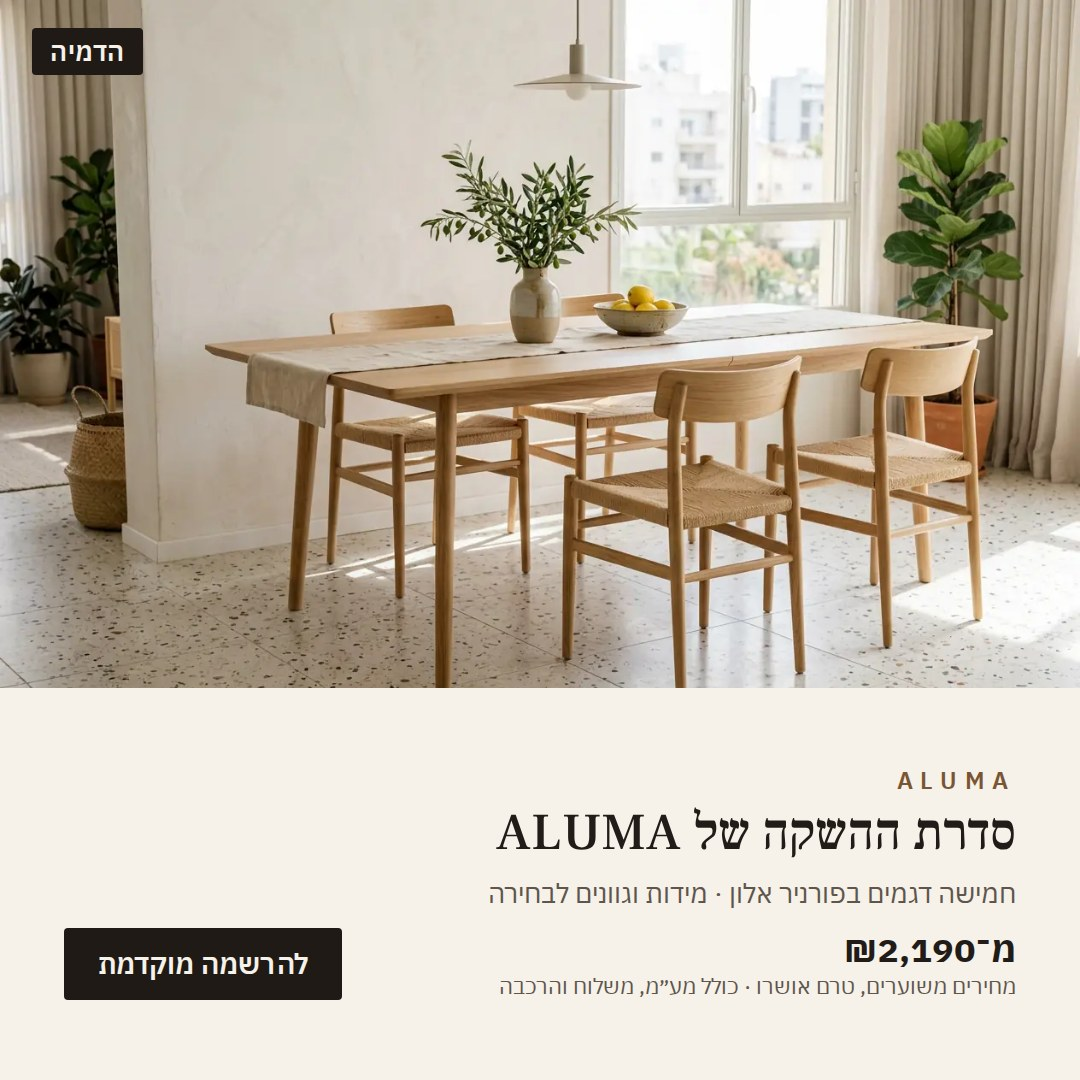
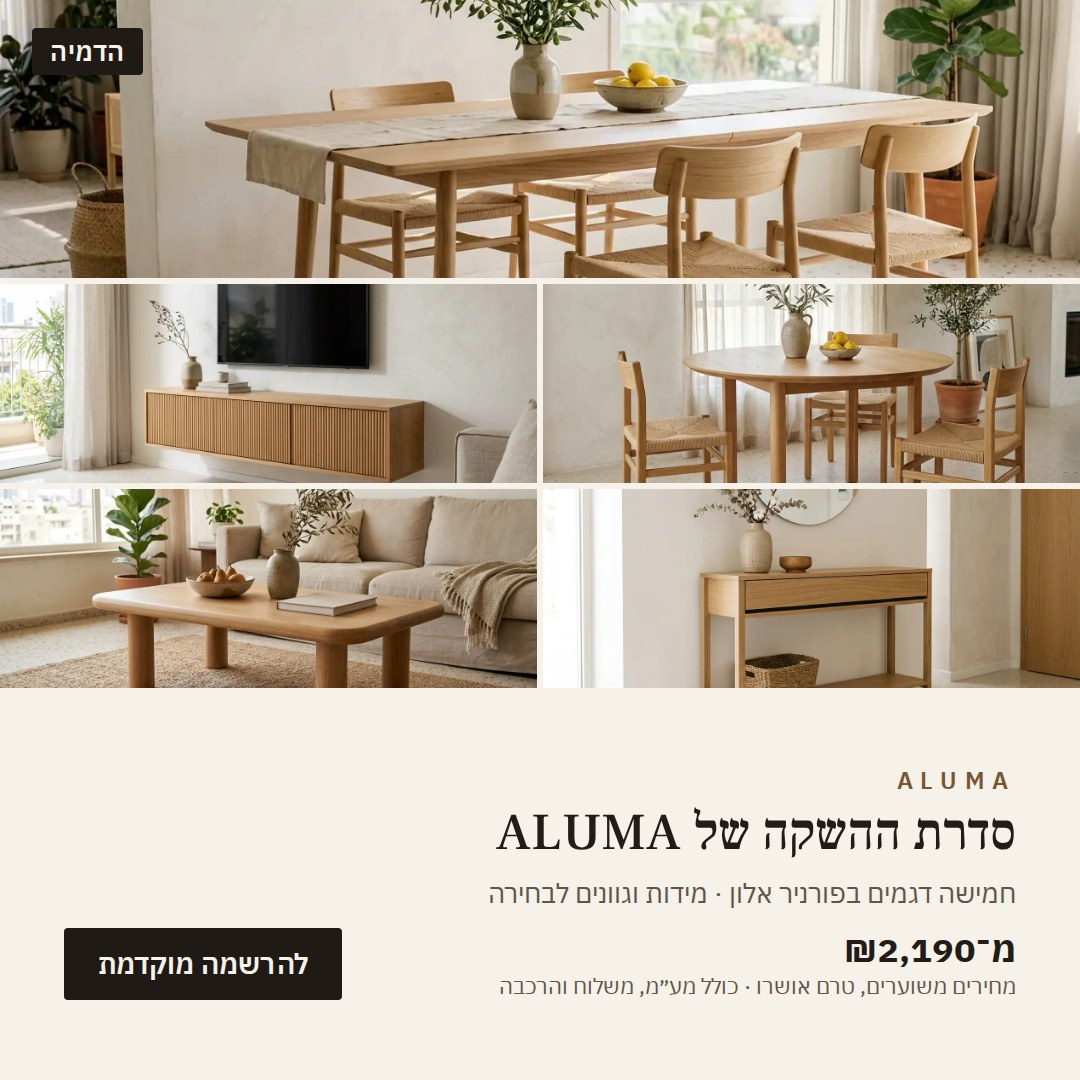
fix(creatives): колекція 1:1 і 4:5 показує всі п'ять товарів — ціна «від ₪2 190» більше не від невидимого TAL
Рядки сітки «1fr» не стискались нижче природної висоти кадру: у 1:1 видно було лише TAVOR, у 4:5 —
TAVOR, OFEK і SAHAR, а «מ־₪2,190» — ціна TAL, якого на картинці не було. Тепер minmax(0, …).
build.js міряє, яку частку полотна реально показує кожен кадр (elementFromPoint), і падає нижче 5 %;
report.json несе tiles, tests/test_quality_creatives.py звіряє їх з limits.min_tile_share.
Старий шаблон з новою перевіркою — червоні рівно collection 1:1 і 4:5.

Claude-Session: https://claude.ai/code/session_018sbZ2fd9jFWSViuAy2YxtJ

diff --git a/docs/creatives/preview.html b/docs/creatives/preview.html
@@ -6,7 +6,7 @@ h1{font-size:22px;margin:0 0 16px}h2{font-size:17px;margin:24px 0 8px}.row{displ
 figure{margin:0}img{display:block;height:auto;max-width:100%;box-shadow:0 1px 4px rgba(0,0,0,.18)}figcaption{font-size:13px;color:#5E554C;margin-top:6px}</style>
 </head><body><h1>ALUMA — креативи для тесту Meta (візуалізації, «הדמיה»)</h1>
 <p>Згенеровано: node tools/creatives/build.js. Ціни — орієнтир, «מחיר משוער, טרם אושר».</p>
-<section><h2>tavor</h2><div class="row"><figure><img src="tavor-1080x1080.jpg" alt="tavor 1080×1080" width="270" height="270"><figcaption>1080×1080 · 168 KB · текст 8.0 % · контраст ≥ 5.9</figcaption></figure><figure><img src="tavor-1080x1350.jpg" alt="tavor 1080×1350" width="270" height="337.5"><figcaption>1080×1350 · 193 KB · текст 7.4 % · контраст ≥ 5.9</figcaption></figure><figure><img src="tavor-1080x1920.jpg" alt="tavor 1080×1920" width="270" height="480"><figcaption>1080×1920 · 210 KB · текст 5.8 % · контраст ≥ 5.9</figcaption></figure></div></section>
-<section><h2>sahar</h2><div class="row"><figure><img src="sahar-1080x1080.jpg" alt="sahar 1080×1080" width="270" height="270"><figcaption>1080×1080 · 159 KB · текст 8.2 % · контраст ≥ 5.9</figcaption></figure><figure><img src="sahar-1080x1350.jpg" alt="sahar 1080×1350" width="270" height="337.5"><figcaption>1080×1350 · 199 KB · текст 7.6 % · контраст ≥ 5.9</figcaption></figure><figure><img src="sahar-1080x1920.jpg" alt="sahar 1080×1920" width="270" height="480"><figcaption>1080×1920 · 213 KB · текст 5.9 % · контраст ≥ 5.9</figcaption></figure></div></section>
-<section><h2>collection</h2><div class="row"><figure><img src="collection-1080x1080.jpg" alt="collection 1080×1080" width="270" height="270"><figcaption>1080×1080 · 169 KB · текст 7.8 % · контраст ≥ 5.9</figcaption></figure><figure><img src="collection-1080x1350.jpg" alt="collection 1080×1350" width="270" height="337.5"><figcaption>1080×1350 · 213 KB · текст 7.2 % · контраст ≥ 5.9</figcaption></figure><figure><img src="collection-1080x1920.jpg" alt="collection 1080×1920" width="270" height="480"><figcaption>1080×1920 · 364 KB · текст 5.6 % · контраст ≥ 5.9</figcaption></figure></div></section>
+<section><h2>tavor</h2><div class="row"><figure><img src="tavor-1080x1080.jpg" alt="tavor 1080×1080" width="270" height="270"><figcaption>1080×1080 · 171 KB · текст 8.0 % · контраст ≥ 5.9</figcaption></figure><figure><img src="tavor-1080x1350.jpg" alt="tavor 1080×1350" width="270" height="337.5"><figcaption>1080×1350 · 193 KB · текст 7.4 % · контраст ≥ 5.9</figcaption></figure><figure><img src="tavor-1080x1920.jpg" alt="tavor 1080×1920" width="270" height="480"><figcaption>1080×1920 · 210 KB · текст 5.8 % · контраст ≥ 5.9</figcaption></figure></div></section>
+<section><h2>sahar</h2><div class="row"><figure><img src="sahar-1080x1080.jpg" alt="sahar 1080×1080" width="270" height="270"><figcaption>1080×1080 · 162 KB · текст 8.2 % · контраст ≥ 5.9</figcaption></figure><figure><img src="sahar-1080x1350.jpg" alt="sahar 1080×1350" width="270" height="337.5"><figcaption>1080×1350 · 199 KB · текст 7.6 % · контраст ≥ 5.9</figcaption></figure><figure><img src="sahar-1080x1920.jpg" alt="sahar 1080×1920" width="270" height="480"><figcaption>1080×1920 · 213 KB · текст 5.9 % · контраст ≥ 5.9</figcaption></figure></div></section>
+<section><h2>collection</h2><div class="row"><figure><img src="collection-1080x1080.jpg" alt="collection 1080×1080" width="270" height="270"><figcaption>1080×1080 · 183 KB · текст 7.8 % · контраст ≥ 5.9</figcaption></figure><figure><img src="collection-1080x1350.jpg" alt="collection 1080×1350" width="270" height="337.5"><figcaption>1080×1350 · 233 KB · текст 7.2 % · контраст ≥ 5.9</figcaption></figure><figure><img src="collection-1080x1920.jpg" alt="collection 1080×1920" width="270" height="480"><figcaption>1080×1920 · 364 KB · текст 5.6 % · контраст ≥ 5.9</figcaption></figure></div></section>
 </body></html>

diff --git a/tools/creatives/build.js b/tools/creatives/build.js
@@ -21,6 +21,7 @@ const ORIGIN = 'https://creative.test';
 const MAX_BYTES = 500 * 1024;
 const MAX_TEXT_SHARE = 0.20;
 const MIN_CONTRAST = 4.5;
+const MIN_TILE_SHARE = 0.05;   // кожен кадр товару — щонайменше 5 % полотна
 const TYPES = { '.webp': 'image/webp', '.avif': 'image/avif', '.png': 'image/png', '.jpg': 'image/jpeg',
   '.jpeg': 'image/jpeg', '.woff2': 'font/woff2' };
 
@@ -127,12 +128,21 @@ function measure() {
     texts.push({ text: el.textContent.trim().slice(0, 40), contrast: bg ? (a + 0.05) / (b + 0.05) : 0,
       inside: box.left >= 0 && box.top >= 0 && box.right <= W && box.bottom <= H });
   }
+  // Яка частка полотна реально показує кожен кадр (сітка точок + elementFromPoint: враховує обрізання
+  // сіткою й картку 9:16 поверх кадру). Товар, якого не видно, не може стояти в креативі — і його ціна теж.
+  const STEP = 12;
+  const tiles = [...document.querySelectorAll('.media img')].map((img) => {
+    let hit = 0;
+    for (let y = STEP / 2; y < H; y += STEP) for (let x = STEP / 2; x < W; x += STEP) if (document.elementFromPoint(x, y) === img) hit += 1;
+    return hit * STEP * STEP / (W * H);
+  });
   const panel = document.querySelector('.panel');
   const mark = document.querySelector('.mark');
   const mbox = mark.getBoundingClientRect();
   return {
     textShare: textArea / (W * H),
     texts,
+    tiles,
     panelOverflow: panel.scrollHeight > panel.clientHeight + 1 || panel.scrollWidth > panel.clientWidth + 1,
     mark: mark.textContent.trim(), markVisible: mbox.width > 0 && mbox.height > 0 && mbox.top >= 0 && mbox.left >= 0,
     imagesOk: [...document.images].every((i) => i.complete && i.naturalWidth > 0),
@@ -202,7 +212,7 @@ async function main() {
   fs.mkdirSync(outDir, { recursive: true });
   const browser = await chromium.launch();
   const failures = [];
-  const report = { generated_by: 'tools/creatives/build.js', limits: { max_bytes: MAX_BYTES, max_text_share: MAX_TEXT_SHARE, min_contrast: MIN_CONTRAST }, creatives: [] };
+  const report = { generated_by: 'tools/creatives/build.js', limits: { max_bytes: MAX_BYTES, max_text_share: MAX_TEXT_SHARE, min_contrast: MIN_CONTRAST, min_tile_share: MIN_TILE_SHARE }, creatives: [] };
   const rows = [];
   try {
     for (const { v, products, images } of plan) {
@@ -236,11 +246,14 @@ async function main() {
         if (m.mark !== cfg.mark || !m.markVisible) problems.push('нема позначки «הדמיה»');
         if (m.panelOverflow) problems.push('панель переповнена');
         if (!m.imagesOk) problems.push('кадр не завантажився');
+        m.tiles.forEach((share, i) => {
+          if (share < MIN_TILE_SHARE) problems.push(`кадр ${products[i] ? products[i].id : i} видно на ${(share * 100).toFixed(1)} % < ${MIN_TILE_SHARE * 100} %`);
+        });
         if (!m.fontsOk) problems.push('шрифт сайту не завантажився');
         if (shot.bytes > MAX_BYTES) problems.push(`${Math.round(shot.bytes / 1024)} КБ > 500`);
         if (problems.length) failures.push(`${name}: ${problems.join('; ')}`);
         const item = { file: name, width: f.width, height: f.height, bytes: shot.bytes, jpeg_quality: shot.quality,
-          textShare: m.textShare, minContrast, products: products.map((p) => p.id),
+          textShare: m.textShare, minContrast, tiles: m.tiles.map((t) => Number(t.toFixed(4))), products: products.map((p) => p.id),
           images: images.map((p) => path.relative(ROOT, p).split(path.sep).join('/')) };
         row.items[f.id] = item;
         report.creatives.push({ ...item, text_share: Number(m.textShare.toFixed(4)), min_contrast: Number(minContrast.toFixed(2)),

diff --git a/tools/creatives/template.html b/tools/creatives/template.html
@@ -16,13 +16,15 @@ html, body { width: var(--w); height: var(--h); background: var(--paper); overfl
 body { font-family: var(--sans); color: var(--ink); -webkit-font-smoothing: antialiased; }
 .canvas { position: relative; width: var(--w); height: var(--h); overflow: hidden; background: var(--paper); }
 
+/* minmax(0, …): без нього рядок «1fr» не стискається нижче природної висоти кадру — у 1:1 і 4:5 перший кадр
+   займав усю висоту, а решта товарів (і найдешевший, чия ціна «від») випадали за край. */
 .media { position: absolute; inset: 0 0 auto 0; height: var(--media-h); display: grid; gap: 6px; background: var(--paper);
-  grid-template-columns: repeat(var(--cols, 1), 1fr); grid-auto-rows: 1fr; }
-.media img { width: 100%; height: 100%; object-fit: cover; display: block; }
-.media.n5 { --cols: 2; grid-template-rows: 1.4fr 1fr 1fr; }
+  overflow: hidden; grid-template-columns: repeat(var(--cols, 1), minmax(0, 1fr)); grid-auto-rows: minmax(0, 1fr); }
+.media img { width: 100%; height: 100%; min-height: 0; object-fit: cover; display: block; }
+.media.n5 { --cols: 2; grid-template-rows: minmax(0, 1.4fr) minmax(0, 1fr) minmax(0, 1fr); }
 .media.n5 img:first-child { grid-column: 1 / -1; }
 .media.n4, .media.n2 { --cols: 2; }
-.media.n3 { --cols: 2; grid-template-rows: 1.4fr 1fr; }
+.media.n3 { --cols: 2; grid-template-rows: minmax(0, 1.4fr) minmax(0, 1fr); }
 .media.n3 img:first-child { grid-column: 1 / -1; }
 
 /* Позначка «הדמיה»: непрозора, щоб контраст не залежав від кадру. */

diff --git a/tests/test_quality_creatives.py b/tests/test_quality_creatives.py
@@ -87,6 +87,10 @@ class PublishedCreativesTests(unittest.TestCase):
             self.assertEqual(f.stat().st_size, it["bytes"], it["file"])
             self.assertLessEqual(it["text_share"], 0.20, it["file"])
             self.assertGreaterEqual(it["min_contrast"], 4.5, it["file"])
+            # кожен товар креативу видно: інакше «від ₪…» — ціна товару, якого на картинці немає
+            self.assertEqual(len(it["tiles"]), len(it["products"]), it["file"])
+            for pid, share in zip(it["products"], it["tiles"]):
+                self.assertGreaterEqual(share, report["limits"]["min_tile_share"], f"{it['file']}: {pid}")
             for img in it["images"]:
                 self.assertTrue(img.startswith("site/assets/products/"), f"{it['file']}: кадр не з каталогу — {img}")
         self.assertTrue((OUT / "preview.html").is_file())
